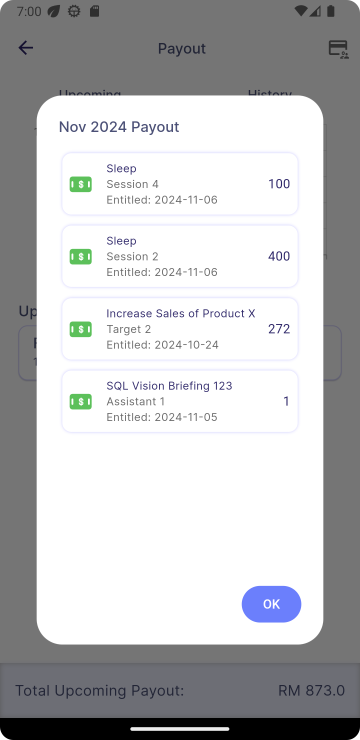
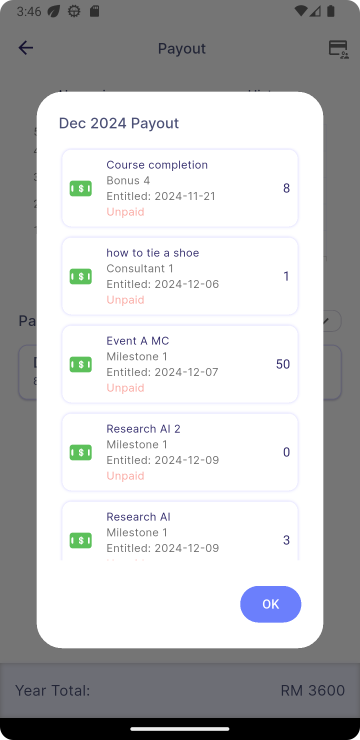
update: updated wallet docs to reflect latest changes

diff --git a/docs/integration/vision/wallet.md b/docs/integration/vision/wallet.md
@@ -21,14 +21,17 @@ sidebar_position: 7
 | ![mobileDemo](../../../static/img/integration/vision/wallet/view-all.png) | ➜ |  ![mobileDemo](../../../static/img/integration/vision/wallet/leaderboard.png) |
 |:---:|---|:---:|
 
-### Payout (based on payment date)
+### Payout (based on expected payout date)
 ![mobileDemo](../../../static/img/integration/vision/wallet/payout-upcoming.png) &nbsp;&nbsp;&nbsp;&nbsp;&nbsp;&nbsp;&nbsp; ![mobileDemo](../../../static/img/integration/vision/wallet/payout-history.png)
 - filter data by upcoming or history by switching tabs
 - barchart to visualise earnings
-- grid showing payout per month, able to tap into it for details pop up\
+- grid showing payout per month, able to tap into it for details pop up
+- in history payout, an exclamation mark status will appear if any of the history payout are unpaid
 
  | ![mobileDemo](../../../static/img/integration/vision/wallet/payout-button.png) | ➜ | ![mobileDemo](../../../static/img/integration/vision/wallet/payout-details.png) |
- |:---:|---|:---:|
+ |:---:|---|:-------------------------------------------------------------------------------:|
+- if a payout have its payment officially made, it will show payment date instead of entitled date
+- paid and unpaid status for payouts past the expected payout date to indicate which are officially paid
 
 ### Entitlement (based on achieved date)
 - barchart to visualise earnings
@@ -61,11 +64,14 @@ both payout and entitlement view have similar layout and function
 
  - tapping the grid will now show a list of employee instead\
  ![mobileDemo](../../../static/img/integration/vision/wallet/manager-payout-details.png)
+ - - in history payout,a red exclamation mark status will appear beside employee's avatar if there are payout that are unpaid past the expected payout date
 
  - tapping on a name will show payout/entitlement details of that employee\
  (**this view will differ when you are in payout history/entitlement view compared to upcoming payout view**)
     - **a) payout history/entitlement** \
  ![mobileDemo](../../../static/img/integration/vision/wallet/manager-payout-emp-details.png)
+- if a payout have its payment officially made, it will show payment date instead of entitled date
+- paid and unpaid status for payouts past the expected payout date to indicate which are officially paid
 
     - **b) upcoming payout** \
       as upcoming payout are not yet paid out, their payout date can be editited, so \
